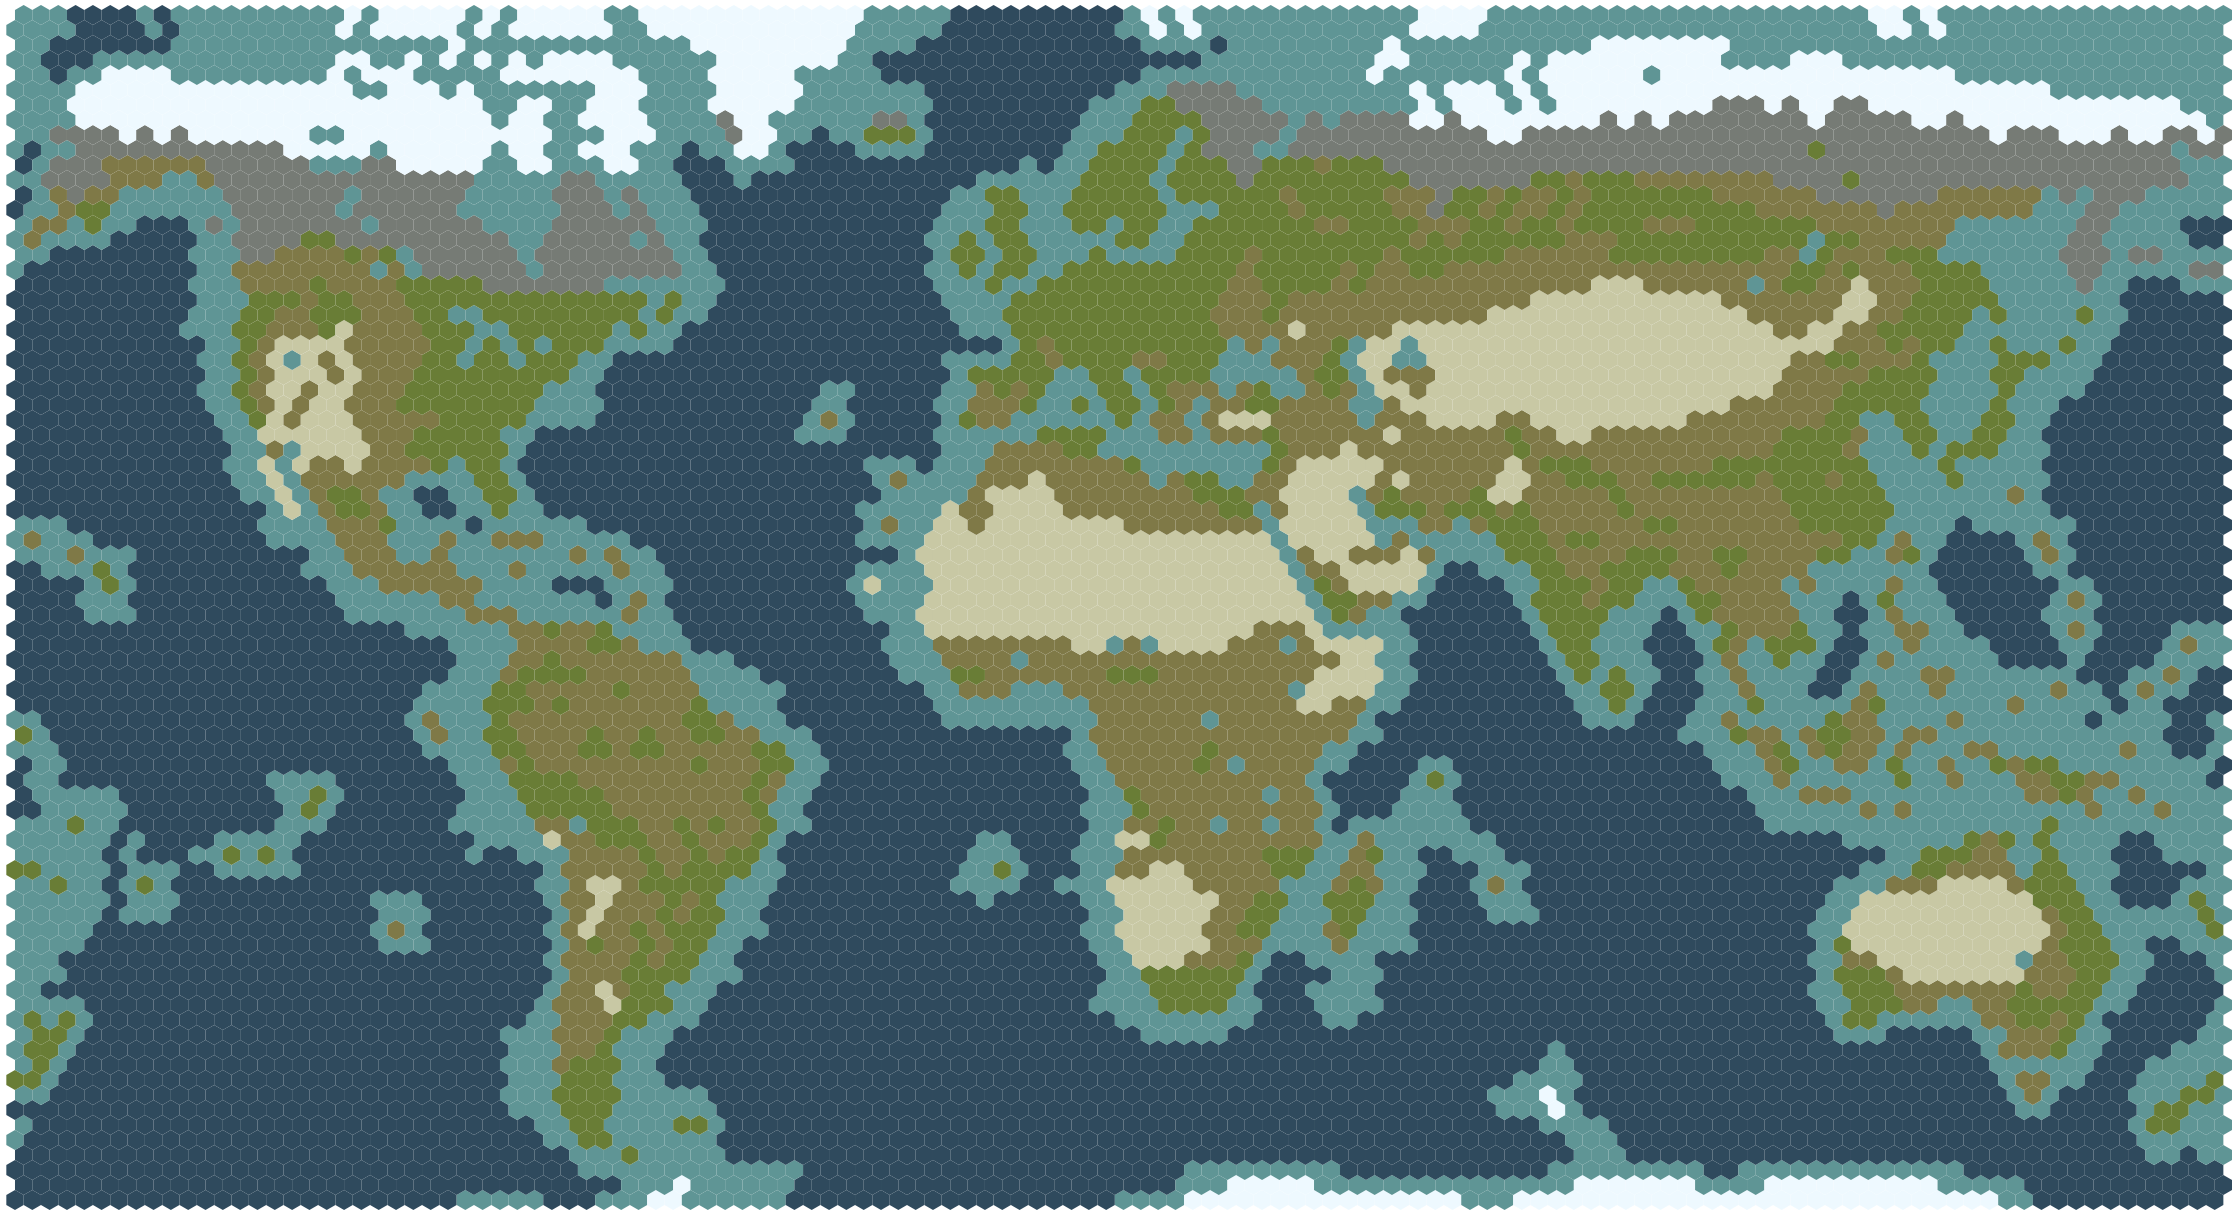
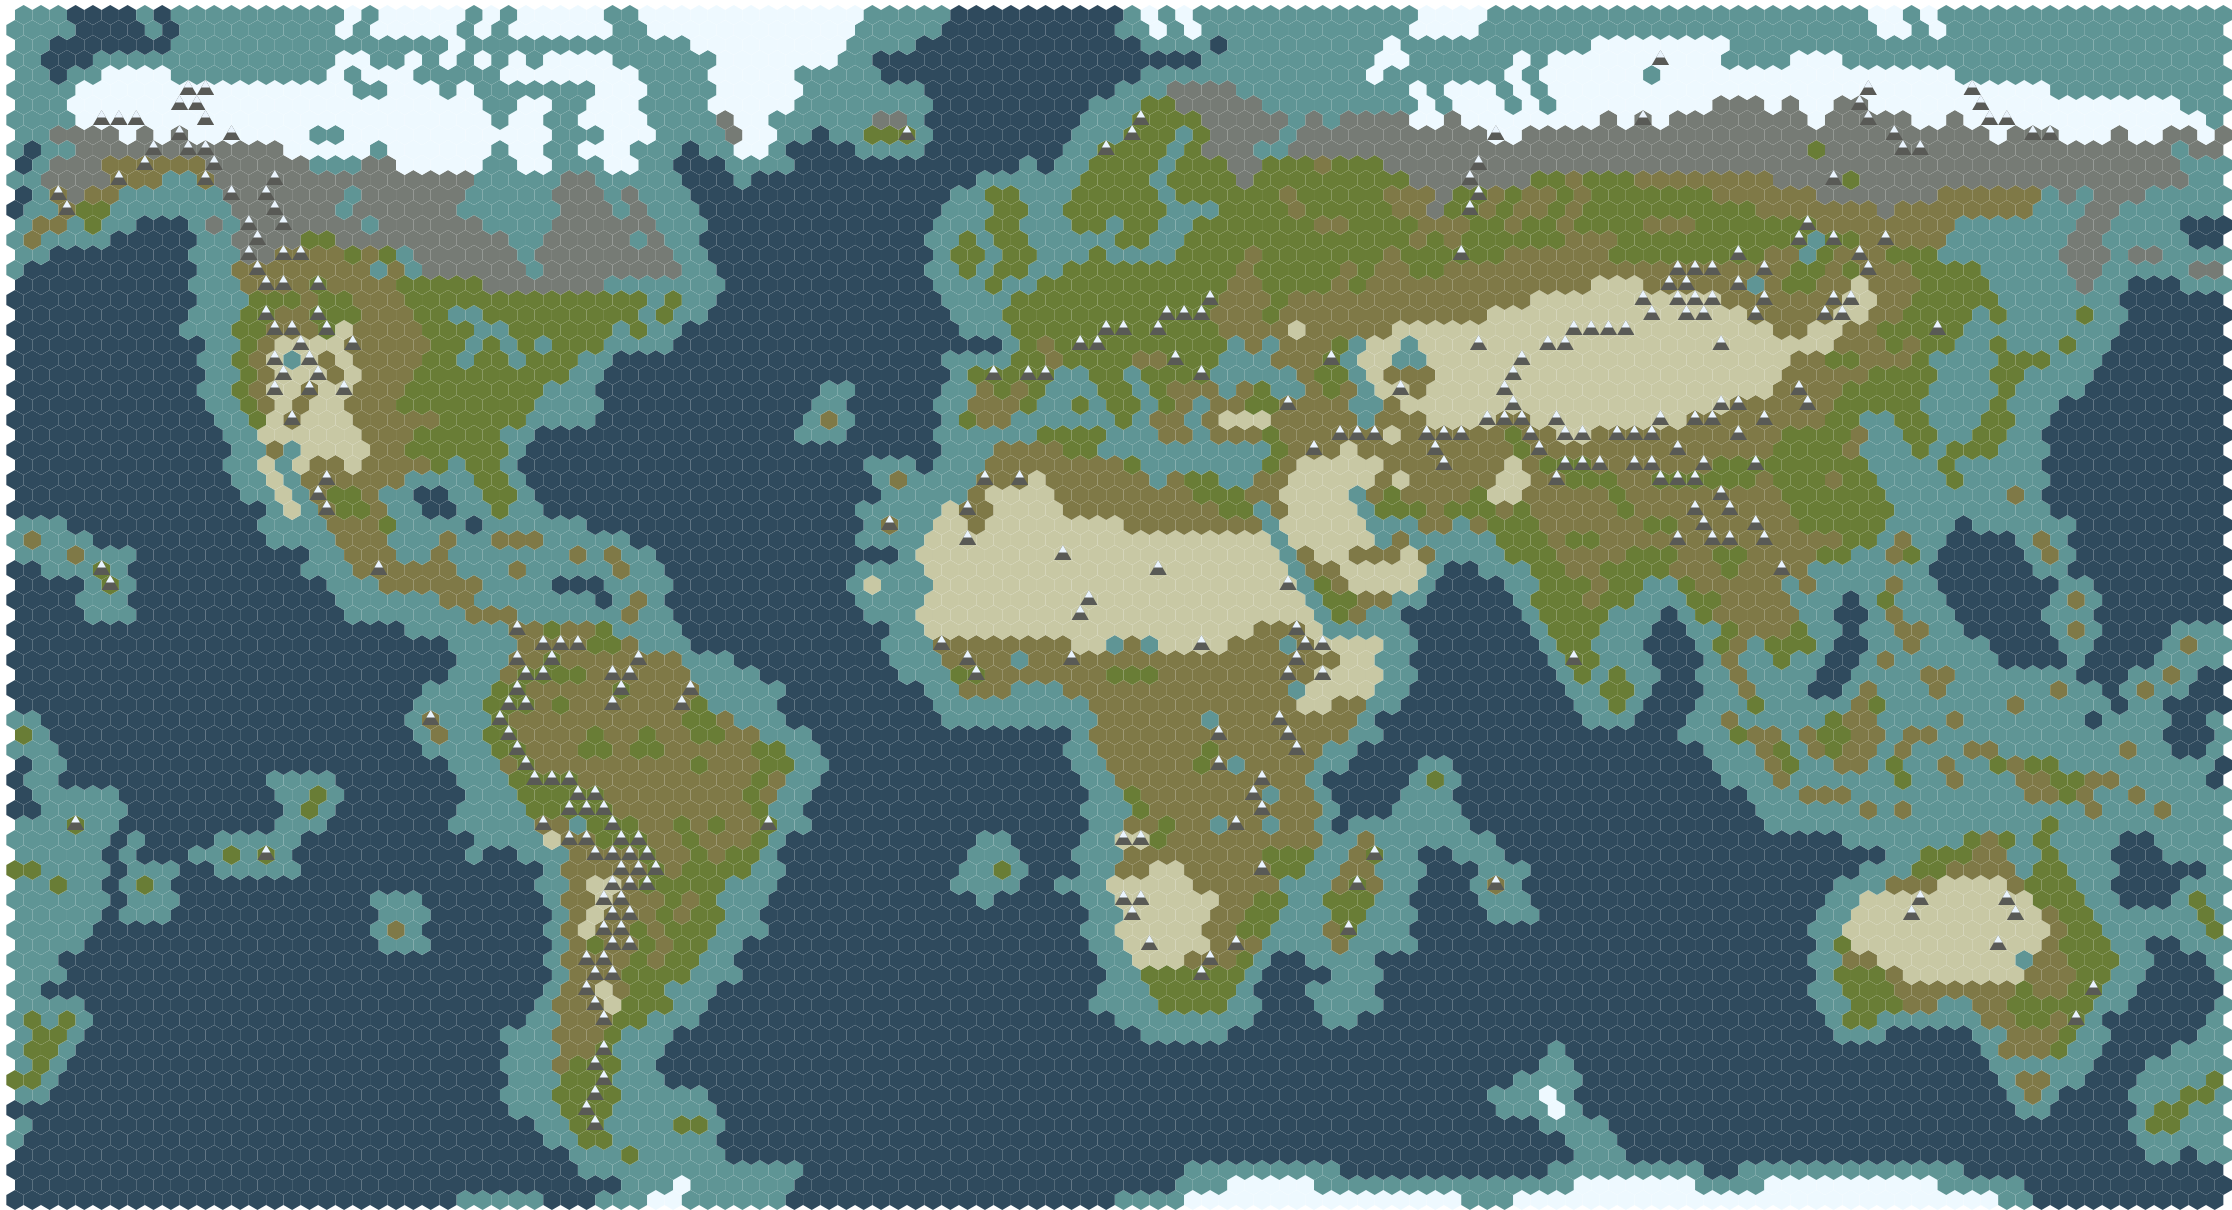
Add mountain tiles

diff --git a/main.go b/main.go
@@ -1,173 +1,35 @@
 package main
 
 import (
-	"encoding/binary"
 	"flag"
 	"fmt"
-	"io"
 	"log"
 	"math"
-	"os"
 
 	"github.com/fogleman/gg"
+	"github.com/samuelyuan/Civ5MapImage/fileio"
 )
 
-type MapHeader struct {
-	ScenarioVersion        uint8
-	Width                  uint32
-	Height                 uint32
-	Players                uint8
-	Settings               uint32
-	TerrainDataSize        uint32
-	FeatureTerrainDataSize uint32
-	FeatureWonderDataSize  uint32
-	ResourceDataSize       uint32
-	ModDataSize            uint32
-	MapNameLength          uint32
-	MapDescriptionLength   uint32
-}
+const (
+	radius = 10.0
+)
 
-type MapTile struct {
-	TerrainType        uint8
-	ResourceType       uint8
-	FeatureTerrainType uint8
-	RiverData          uint8
-	Elevation          uint8
-	Continent          uint8
-	FeatureWonderType  uint8
-	ResourceArmount    uint8
-}
-
-type MapData struct {
-	MapHeader   MapHeader
-	TerrainList []string
-	MapTiles    [][]*MapTile
-}
-
-func byteArrayToStringArray(byteArray []byte) []string {
-	str := ""
-	arr := make([]string, 0)
-	for i := 0; i < len(byteArray); i++ {
-		if byteArray[i] == 0 {
-			arr = append(arr, str)
-			str = ""
-		} else {
-			str += string(byteArray[i])
-		}
-	}
-	return arr
-}
-
-func readData(filename string) (*MapData, error) {
-	inputFile, err := os.Open(filename)
-	defer inputFile.Close()
-	if err != nil {
-		log.Fatal("Failed to load map: ", err)
-		return nil, err
-	}
-	fi, err := inputFile.Stat()
-	if err != nil {
-		log.Fatal(err)
-		return nil, err
-	}
-	fileLength := fi.Size()
-	streamReader := io.NewSectionReader(inputFile, int64(0), fileLength)
-
-	mapHeader := MapHeader{}
-	if err := binary.Read(streamReader, binary.LittleEndian, &mapHeader); err != nil {
-		return nil, err
-	}
-
-	version := mapHeader.ScenarioVersion & 0xF
-	scenario := mapHeader.ScenarioVersion >> 4
-	fmt.Println("Scenario: ", scenario)
-	fmt.Println("Version: ", version)
-
-	terrainDataBytes := make([]byte, mapHeader.TerrainDataSize)
-	if err := binary.Read(streamReader, binary.LittleEndian, &terrainDataBytes); err != nil {
-		return nil, err
-	}
-	terrainList := byteArrayToStringArray(terrainDataBytes)
-	fmt.Println("Terrain data: ", terrainList)
-
-	featureTerrainDataBytes := make([]byte, mapHeader.FeatureTerrainDataSize)
-	if err := binary.Read(streamReader, binary.LittleEndian, &featureTerrainDataBytes); err != nil {
-		return nil, err
-	}
-	fmt.Println("Feature terrain data: ", byteArrayToStringArray(featureTerrainDataBytes))
-
-	featureWonderDataBytes := make([]byte, mapHeader.FeatureWonderDataSize)
-	if err := binary.Read(streamReader, binary.LittleEndian, &featureWonderDataBytes); err != nil {
-		return nil, err
-	}
-	fmt.Println("Feature wonder data: ", byteArrayToStringArray(featureWonderDataBytes))
-
-	resourceDataBytes := make([]byte, mapHeader.ResourceDataSize)
-	if err := binary.Read(streamReader, binary.LittleEndian, &resourceDataBytes); err != nil {
-		return nil, err
-	}
-	fmt.Println("Resource data: ", byteArrayToStringArray(resourceDataBytes))
-
-	modDataBytes := make([]byte, mapHeader.ModDataSize)
-	if err := binary.Read(streamReader, binary.LittleEndian, &modDataBytes); err != nil {
-		return nil, err
-	}
-	fmt.Println("Mod data: ", string(modDataBytes))
-
-	mapNameBytes := make([]byte, mapHeader.MapNameLength)
-	if err := binary.Read(streamReader, binary.LittleEndian, &mapNameBytes); err != nil {
-		return nil, err
-	}
-	fmt.Println("Map name: ", string(mapNameBytes))
-
-	mapDescriptionBytes := make([]byte, mapHeader.MapDescriptionLength)
-	if err := binary.Read(streamReader, binary.LittleEndian, &mapDescriptionBytes); err != nil {
-		return nil, err
-	}
-	fmt.Println("Map description: ", string(mapDescriptionBytes))
-
-	// Earlier versions don't have this field
-	if version >= 11 {
-		unknownStringLength := uint32(0)
-		if err := binary.Read(streamReader, binary.LittleEndian, &unknownStringLength); err != nil {
-			return nil, err
-		}
-
-		unknownStringBytes := make([]byte, unknownStringLength)
-		if err := binary.Read(streamReader, binary.LittleEndian, &unknownStringBytes); err != nil {
-			return nil, err
-		}
-		fmt.Println("Unknown string: ", string(unknownStringBytes))
-	}
-
-	mapTiles := make([][]*MapTile, mapHeader.Height)
-	for i := 0; i < int(mapHeader.Height); i++ {
-		mapTiles[i] = make([]*MapTile, mapHeader.Width)
-		for j := 0; j < int(mapHeader.Width); j++ {
-			tile := MapTile{}
-			if err := binary.Read(streamReader, binary.LittleEndian, &tile); err != nil {
-				return nil, err
-			}
-			mapTiles[i][j] = &tile
-		}
-	}
-
-	mapData := &MapData{
-		MapHeader:   mapHeader,
-		TerrainList: terrainList,
-		MapTiles:    mapTiles,
-	}
-	return mapData, err
-}
-
-func drawMap(mapData *MapData, outputFilename string) {
-	radius := 10.0
+func getImagePosition(i int, j int) (float64, float64) {
 	angle := math.Pi / 6
+
+	x := (radius * 1.5) + float64(j)*(2*radius*math.Cos(angle))
+	y := radius + float64(i)*radius*(1+math.Sin(angle))
+	if i%2 == 1 {
+		x += radius * math.Cos(angle)
+	}
+	return x, y
+}
+
+func drawMap(mapData *fileio.Civ5MapData, outputFilename string) {
 	mapHeight := len(mapData.MapTiles)
 	mapWidth := len(mapData.MapTiles[0])
 
-	maxImageWidth := (radius * 1.5) + float64(mapWidth)*(2*radius*math.Cos(angle))
-	maxImageHeight := radius + float64(mapHeight)*radius*(1+math.Sin(angle))
+	maxImageWidth, maxImageHeight := getImagePosition(mapHeight, mapWidth)
 	dc := gg.NewContext(int(maxImageWidth), int(maxImageHeight))
 	fmt.Println("Map height: ", mapHeight, ", width: ", mapWidth)
 
@@ -176,14 +38,11 @@ func drawMap(mapData *MapData, outputFilename string) {
 
 	for i := 0; i < len(mapData.MapTiles); i++ {
 		for j := 0; j < len(mapData.MapTiles[i]); j++ {
-			x := (radius * 1.5) + float64(j)*(2*radius*math.Cos(angle))
-			y := radius + float64(i)*radius*(1+math.Sin(angle))
-			if i%2 == 1 {
-				x += radius * math.Cos(angle)
-			}
+			x, y := getImagePosition(i, j)
 			dc.DrawRegularPolygon(6, x, y, radius, math.Pi/2)
 
 			terrainType := mapData.MapTiles[i][j].TerrainType
+			elevation := mapData.MapTiles[i][j].Elevation
 			terrainString := mapData.TerrainList[terrainType]
 			switch terrainString {
 			case "TERRAIN_GRASS":
@@ -205,6 +64,16 @@ func drawMap(mapData *MapData, outputFilename string) {
 			}
 
 			dc.Fill()
+
+			// Draw mountains
+			if elevation == 2 {
+				dc.DrawRegularPolygon(3, x, y, radius, math.Pi)
+				dc.SetRGB255(89, 90, 86)
+				dc.Fill()
+				dc.DrawRegularPolygon(3, x, y+(radius/2), radius/2, math.Pi)
+				dc.SetRGB255(234, 244, 253)
+				dc.Fill()
+			}
 		}
 	}
 
@@ -219,7 +88,7 @@ func main() {
 
 	fmt.Println("Input filename: ", *inputPtr)
 	fmt.Println("Output filename: ", *outputPtr)
-	mapData, err := readData(*inputPtr)
+	mapData, err := fileio.ReadCiv5MapFile(*inputPtr)
 	if err != nil {
 		log.Fatal("Failed to read input file: ", err)
 	}

diff --git a/fileio/civ5map.go b/fileio/civ5map.go
@@ -1,0 +1,157 @@
+package fileio
+
+import (
+	"encoding/binary"
+	"fmt"
+	"io"
+	"log"
+	"os"
+)
+
+type Civ5MapHeader struct {
+	ScenarioVersion        uint8
+	Width                  uint32
+	Height                 uint32
+	Players                uint8
+	Settings               uint32
+	TerrainDataSize        uint32
+	FeatureTerrainDataSize uint32
+	FeatureWonderDataSize  uint32
+	ResourceDataSize       uint32
+	ModDataSize            uint32
+	MapNameLength          uint32
+	MapDescriptionLength   uint32
+}
+
+type Civ5MapTile struct {
+	TerrainType        uint8
+	ResourceType       uint8
+	FeatureTerrainType uint8
+	RiverData          uint8
+	Elevation          uint8
+	Continent          uint8
+	FeatureWonderType  uint8
+	ResourceAmount    uint8
+}
+
+type Civ5MapData struct {
+	MapHeader   Civ5MapHeader
+	TerrainList []string
+	MapTiles    [][]*Civ5MapTile
+}
+
+func byteArrayToStringArray(byteArray []byte) []string {
+	str := ""
+	arr := make([]string, 0)
+	for i := 0; i < len(byteArray); i++ {
+		if byteArray[i] == 0 {
+			arr = append(arr, str)
+			str = ""
+		} else {
+			str += string(byteArray[i])
+		}
+	}
+	return arr
+}
+
+func ReadCiv5MapFile(filename string) (*Civ5MapData, error) {
+	inputFile, err := os.Open(filename)
+	defer inputFile.Close()
+	if err != nil {
+		log.Fatal("Failed to load map: ", err)
+		return nil, err
+	}
+	fi, err := inputFile.Stat()
+	if err != nil {
+		log.Fatal(err)
+		return nil, err
+	}
+	fileLength := fi.Size()
+	streamReader := io.NewSectionReader(inputFile, int64(0), fileLength)
+
+	mapHeader := Civ5MapHeader{}
+	if err := binary.Read(streamReader, binary.LittleEndian, &mapHeader); err != nil {
+		return nil, err
+	}
+
+	version := mapHeader.ScenarioVersion & 0xF
+	scenario := mapHeader.ScenarioVersion >> 4
+	fmt.Println("Scenario: ", scenario)
+	fmt.Println("Version: ", version)
+
+	terrainDataBytes := make([]byte, mapHeader.TerrainDataSize)
+	if err := binary.Read(streamReader, binary.LittleEndian, &terrainDataBytes); err != nil {
+		return nil, err
+	}
+	terrainList := byteArrayToStringArray(terrainDataBytes)
+	fmt.Println("Terrain data: ", terrainList)
+
+	featureTerrainDataBytes := make([]byte, mapHeader.FeatureTerrainDataSize)
+	if err := binary.Read(streamReader, binary.LittleEndian, &featureTerrainDataBytes); err != nil {
+		return nil, err
+	}
+	fmt.Println("Feature terrain data: ", byteArrayToStringArray(featureTerrainDataBytes))
+
+	featureWonderDataBytes := make([]byte, mapHeader.FeatureWonderDataSize)
+	if err := binary.Read(streamReader, binary.LittleEndian, &featureWonderDataBytes); err != nil {
+		return nil, err
+	}
+	fmt.Println("Feature wonder data: ", byteArrayToStringArray(featureWonderDataBytes))
+
+	resourceDataBytes := make([]byte, mapHeader.ResourceDataSize)
+	if err := binary.Read(streamReader, binary.LittleEndian, &resourceDataBytes); err != nil {
+		return nil, err
+	}
+	fmt.Println("Resource data: ", byteArrayToStringArray(resourceDataBytes))
+
+	modDataBytes := make([]byte, mapHeader.ModDataSize)
+	if err := binary.Read(streamReader, binary.LittleEndian, &modDataBytes); err != nil {
+		return nil, err
+	}
+	fmt.Println("Mod data: ", string(modDataBytes))
+
+	mapNameBytes := make([]byte, mapHeader.MapNameLength)
+	if err := binary.Read(streamReader, binary.LittleEndian, &mapNameBytes); err != nil {
+		return nil, err
+	}
+	fmt.Println("Map name: ", string(mapNameBytes))
+
+	mapDescriptionBytes := make([]byte, mapHeader.MapDescriptionLength)
+	if err := binary.Read(streamReader, binary.LittleEndian, &mapDescriptionBytes); err != nil {
+		return nil, err
+	}
+	fmt.Println("Map description: ", string(mapDescriptionBytes))
+
+	// Earlier versions don't have this field
+	if version >= 11 {
+		unknownStringLength := uint32(0)
+		if err := binary.Read(streamReader, binary.LittleEndian, &unknownStringLength); err != nil {
+			return nil, err
+		}
+
+		unknownStringBytes := make([]byte, unknownStringLength)
+		if err := binary.Read(streamReader, binary.LittleEndian, &unknownStringBytes); err != nil {
+			return nil, err
+		}
+		fmt.Println("Unknown string: ", string(unknownStringBytes))
+	}
+
+	mapTiles := make([][]*Civ5MapTile, mapHeader.Height)
+	for i := 0; i < int(mapHeader.Height); i++ {
+		mapTiles[i] = make([]*Civ5MapTile, mapHeader.Width)
+		for j := 0; j < int(mapHeader.Width); j++ {
+			tile := Civ5MapTile{}
+			if err := binary.Read(streamReader, binary.LittleEndian, &tile); err != nil {
+				return nil, err
+			}
+			mapTiles[i][j] = &tile
+		}
+	}
+
+	mapData := &Civ5MapData{
+		MapHeader:   mapHeader,
+		TerrainList: terrainList,
+		MapTiles:    mapTiles,
+	}
+	return mapData, err
+}
